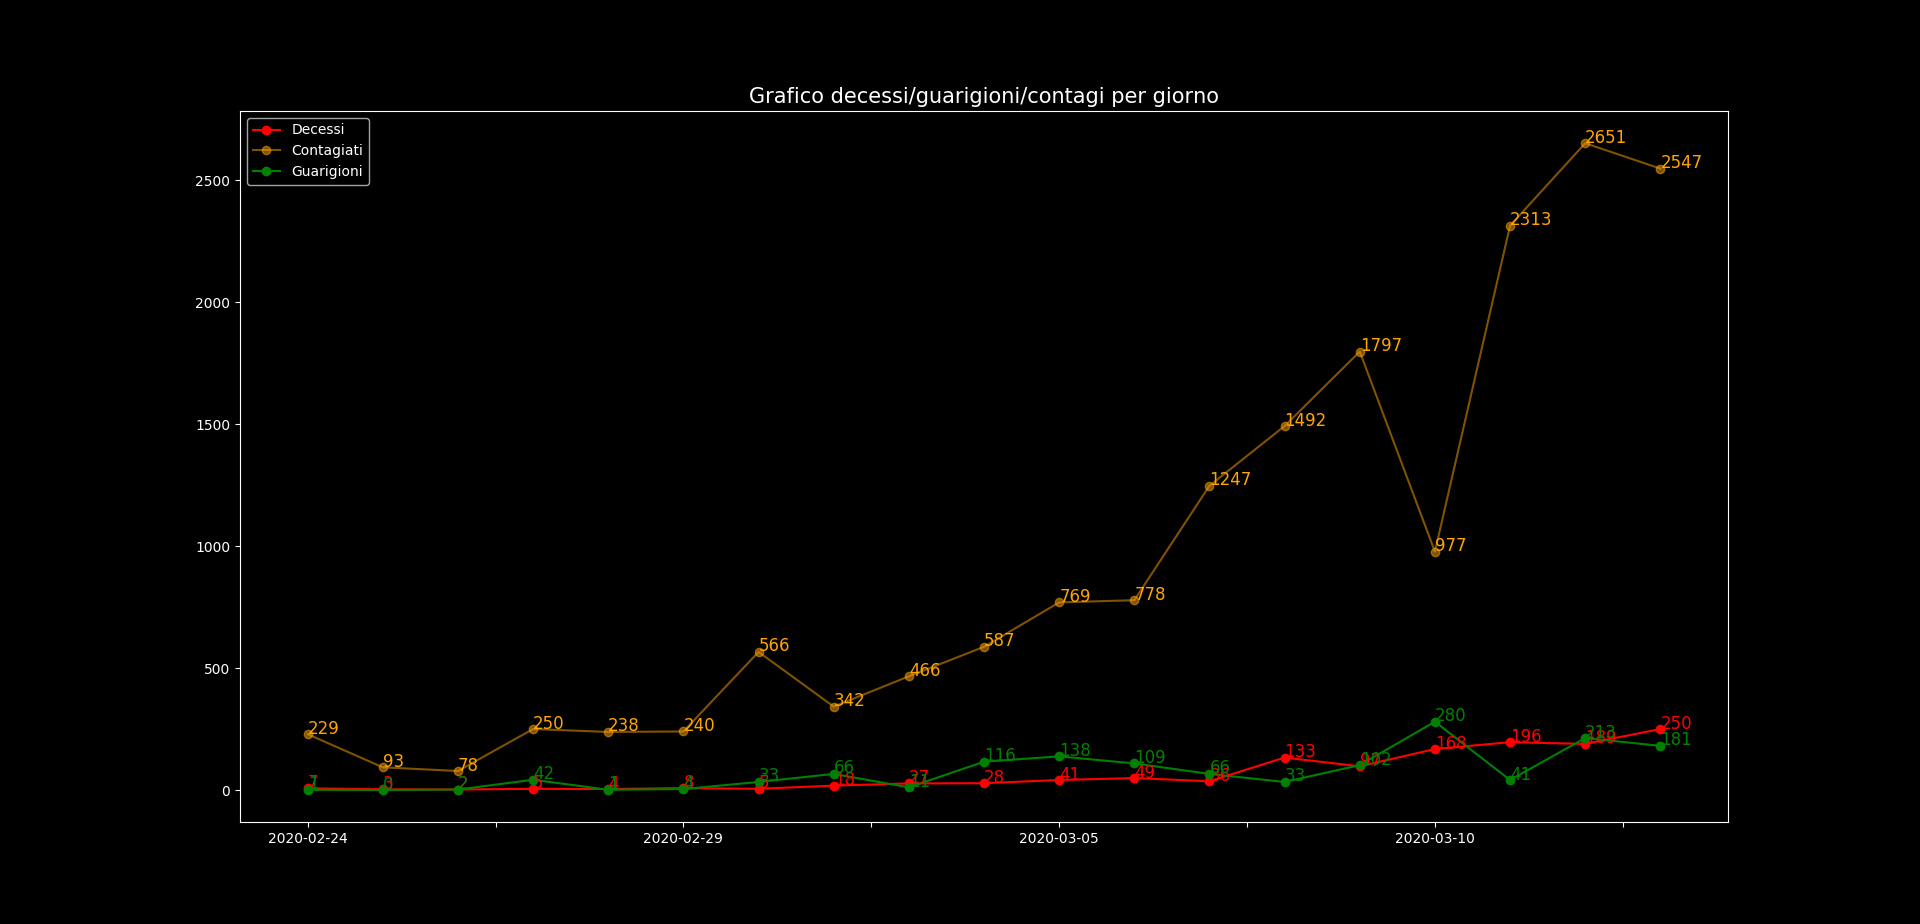
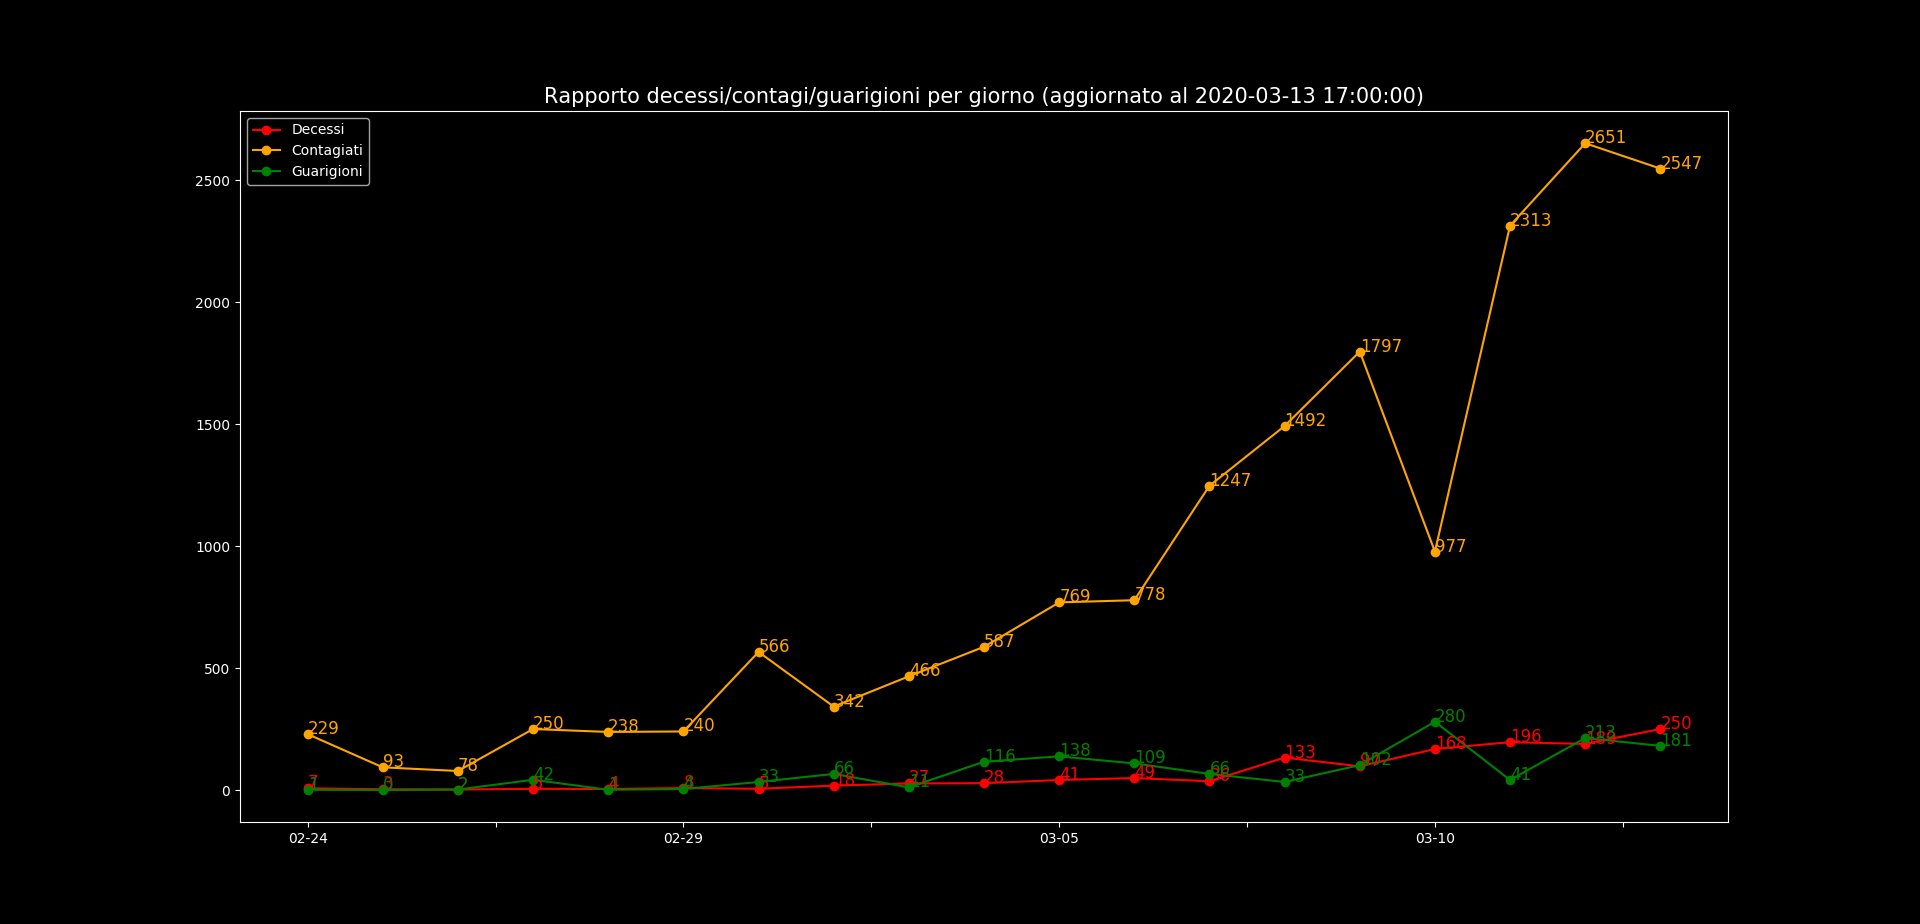
Added pos/neg ration pie

diff --git a/covid19graphs/index.html b/covid19graphs/index.html
@@ -3,15 +3,13 @@
 
 <head>
     <link rel="stylesheet" href="../css/style.css" />
-    <h1>Grafici aggiornati Covid19</h1>
+    <h1>Grafici Covid19 in Italia</h1>
 </head>
 
 <body>
     <table>
         <tr><td><img src="assets/deathconhealperdayline.png"></td></tr>
-        <tr><td><img src="assets/deathhealratioline.png"></td></tr>
         <tr><td><img src="assets/posneglatestpie.png"></td></tr>
-
     </table>
 </body>
 

diff --git a/covid19graphs/src/ContHealDeathPerDay.py b/covid19graphs/src/ContHealDeathPerDay.py
@@ -82,7 +82,7 @@ def main():
 
     #Aggiungo testo e mostro grafico
     aggiungitesto(giornocasi, listaseriescelte, listacolori)
-    showgraph("Rapporto contagiati/guarigioni per giorno")
+    showgraph("Rapporto decessi/contagi/guarigioni per giorno (aggiornato al {})".format(listadati[-1][0]))
     return
 
 
